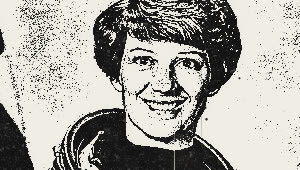
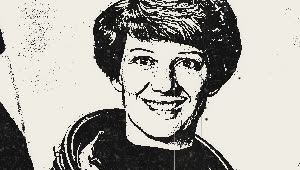
Imágenes: fotocopia con tres variantes bien diferenciadas; trama de revista fina e imperfecta
Claude-Session: https://claude.ai/code/session_01VPHAR7jpTJpijXUd8K8hgP

diff --git a/plugin/js/image.js b/plugin/js/image.js
@@ -358,7 +358,12 @@
     // umbral adaptativo: el fondo local se lleva hacia el medio, así el detalle de luces y sombras se lee
     var ad = p.adapt == null ? 0.35 : p.adapt;
     if (ad > 0) { var M = blur(T, w, h, S * 0.05); for (i = 0; i < n; i++) T[i] = clamp01(T[i] + ad * (0.5 - M[i]) * 0.9); }
-    if (p.method === 'trama') T = amScreen(T, w, h, { cell: S / (p.lines || 55), ang: 45, shape: 'round', gain: 0.25, comp: 0.4, rag: 0.15, seed: seed });
+    if (p.method === 'trama') {
+      // la foto de revista ya traía su trama fina; la fotocopia la engorda y la rompe:
+      // puntos irregulares (fibra, tóner), algunos que se funden y otros que desaparecen
+      T = amScreen(T, w, h, { cell: S / (p.lines || 120), ang: 45, shape: 'round', gain: 0.35, comp: 0.2, rag: 0.55, seed: seed });
+      T = blur(T, w, h, Math.max(0.6, S / (p.lines || 120) * 0.22));
+    }
     // TÓNER: los negros y blancos quedan nítidos; los medios tonos se rompen en GRANO fino y aleatorio
     // (el tóner se pega a puntos sueltos, en grumos de 1-3 px), no en manchas lisas. El umbral se
     // compara con un campo de ruido de tóner (blanco + grumos finos + nubes) cuya amplitud es el
@@ -700,9 +705,9 @@
     { id: 'xerox', name: 'Fotocopia punk', desc: 'Blanco y negro a umbral, como un flyer fotocopiado: el negro se come el detalle, el tóner salpica junto a los bordes, huecos y rayas del cristal. Sin bordes: solo la imagen.',
       palettes: [BK, RD, BL], keys: ['threshold', 'gen', 'adapt', 'contrast', 'detail', 'specks', 'dropout', 'streaks', 'haze', 'grain'],
       variants: [
-        { id: 'umbral', name: 'Umbral duro', p: { kind: 'xerox', threshold: 0.56, gen: 0.1, adapt: 0.3, tgrain: 0.55, detail: 0.6, clarity: 0.5, specks: 0.35, dropout: 0.2, streaks: 0.15, haze: 0.08, grain: 0.15, mottle: 0.1 } },
+        { id: 'umbral', name: 'Umbral duro', p: { kind: 'xerox', threshold: 0.6, gen: 0.1, adapt: 0.15, tgrain: 0.3, contrast: 0.25, detail: 0.55, clarity: 0.5, specks: 0.35, dropout: 0.2, streaks: 0.15, haze: 0.08, grain: 0.15, mottle: 0.1 } },
         { id: 'copia', name: 'Copia de copia', p: { kind: 'xerox', threshold: 0.55, gen: 1, adapt: 0.45, tgrain: 0.85, smear: 0.8, blots: 0.7, detail: 0.3, clarity: 0.3, specks: 0.7, dropout: 0.45, streaks: 0.35, haze: 0.25, grain: 0.25, mottle: 0.2 } },
-        { id: 'trama', name: 'Revista fotocopiada', p: { kind: 'xerox', method: 'trama', lines: 55, threshold: 0.5, gen: 0.25, adapt: 0.15, detail: 0.3, clarity: 0.3, specks: 0.3, dropout: 0.15, streaks: 0.1, haze: 0.1, grain: 0.15, mottle: 0.1 } }
+        { id: 'trama', name: 'Revista fotocopiada', p: { kind: 'xerox', method: 'trama', lines: 125, tgrain: 0.45, threshold: 0.5, gen: 0.25, adapt: 0.15, detail: 0.3, clarity: 0.3, specks: 0.3, dropout: 0.15, streaks: 0.1, haze: 0.1, grain: 0.15, mottle: 0.1 } }
       ] },
     { id: 'news', name: 'Periódico', desc: 'Trama de puntos de una tinta en papel de periódico: las luces pierden el punto, los medios engordan, las sombras se empastan; el punto se corre y a veces se dobla.',
       palettes: [{ name: 'Tinta de periódico', inks: ['#262423'] }, RD, BL], keys: ['lines', 'gain', 'slur', 'contrast', 'detail', 'mottle', 'grain'],

diff --git a/CONTEXTO.md b/CONTEXTO.md
@@ -136,6 +136,10 @@ Todas las gotas salen del banco `plugin/drips`. El motor usa `prepareDrips`, `pi
 
 - Imágenes › Fotocopia punk: el umbral se compara con ruido de tóner (`tgrain`): blancos y negros nítidos, medios tonos en grano fino; nitidez fina antes del umbral.
 - Copia de copia: `smear` (franjas movidas con estela horizontal) y `blots` (borrones grises).
+- Las tres fotocopias se diferencian así:
+  - **Umbral duro:** negros macizos, más contraste y poco grano.
+  - **Copia de copia:** grano, movido y borrones.
+  - **Revista fotocopiada:** trama fina de 125 líneas con puntos rotos y engordados (`rag 0.55`).
 
 ### Cambios de la 0.9.7
 
